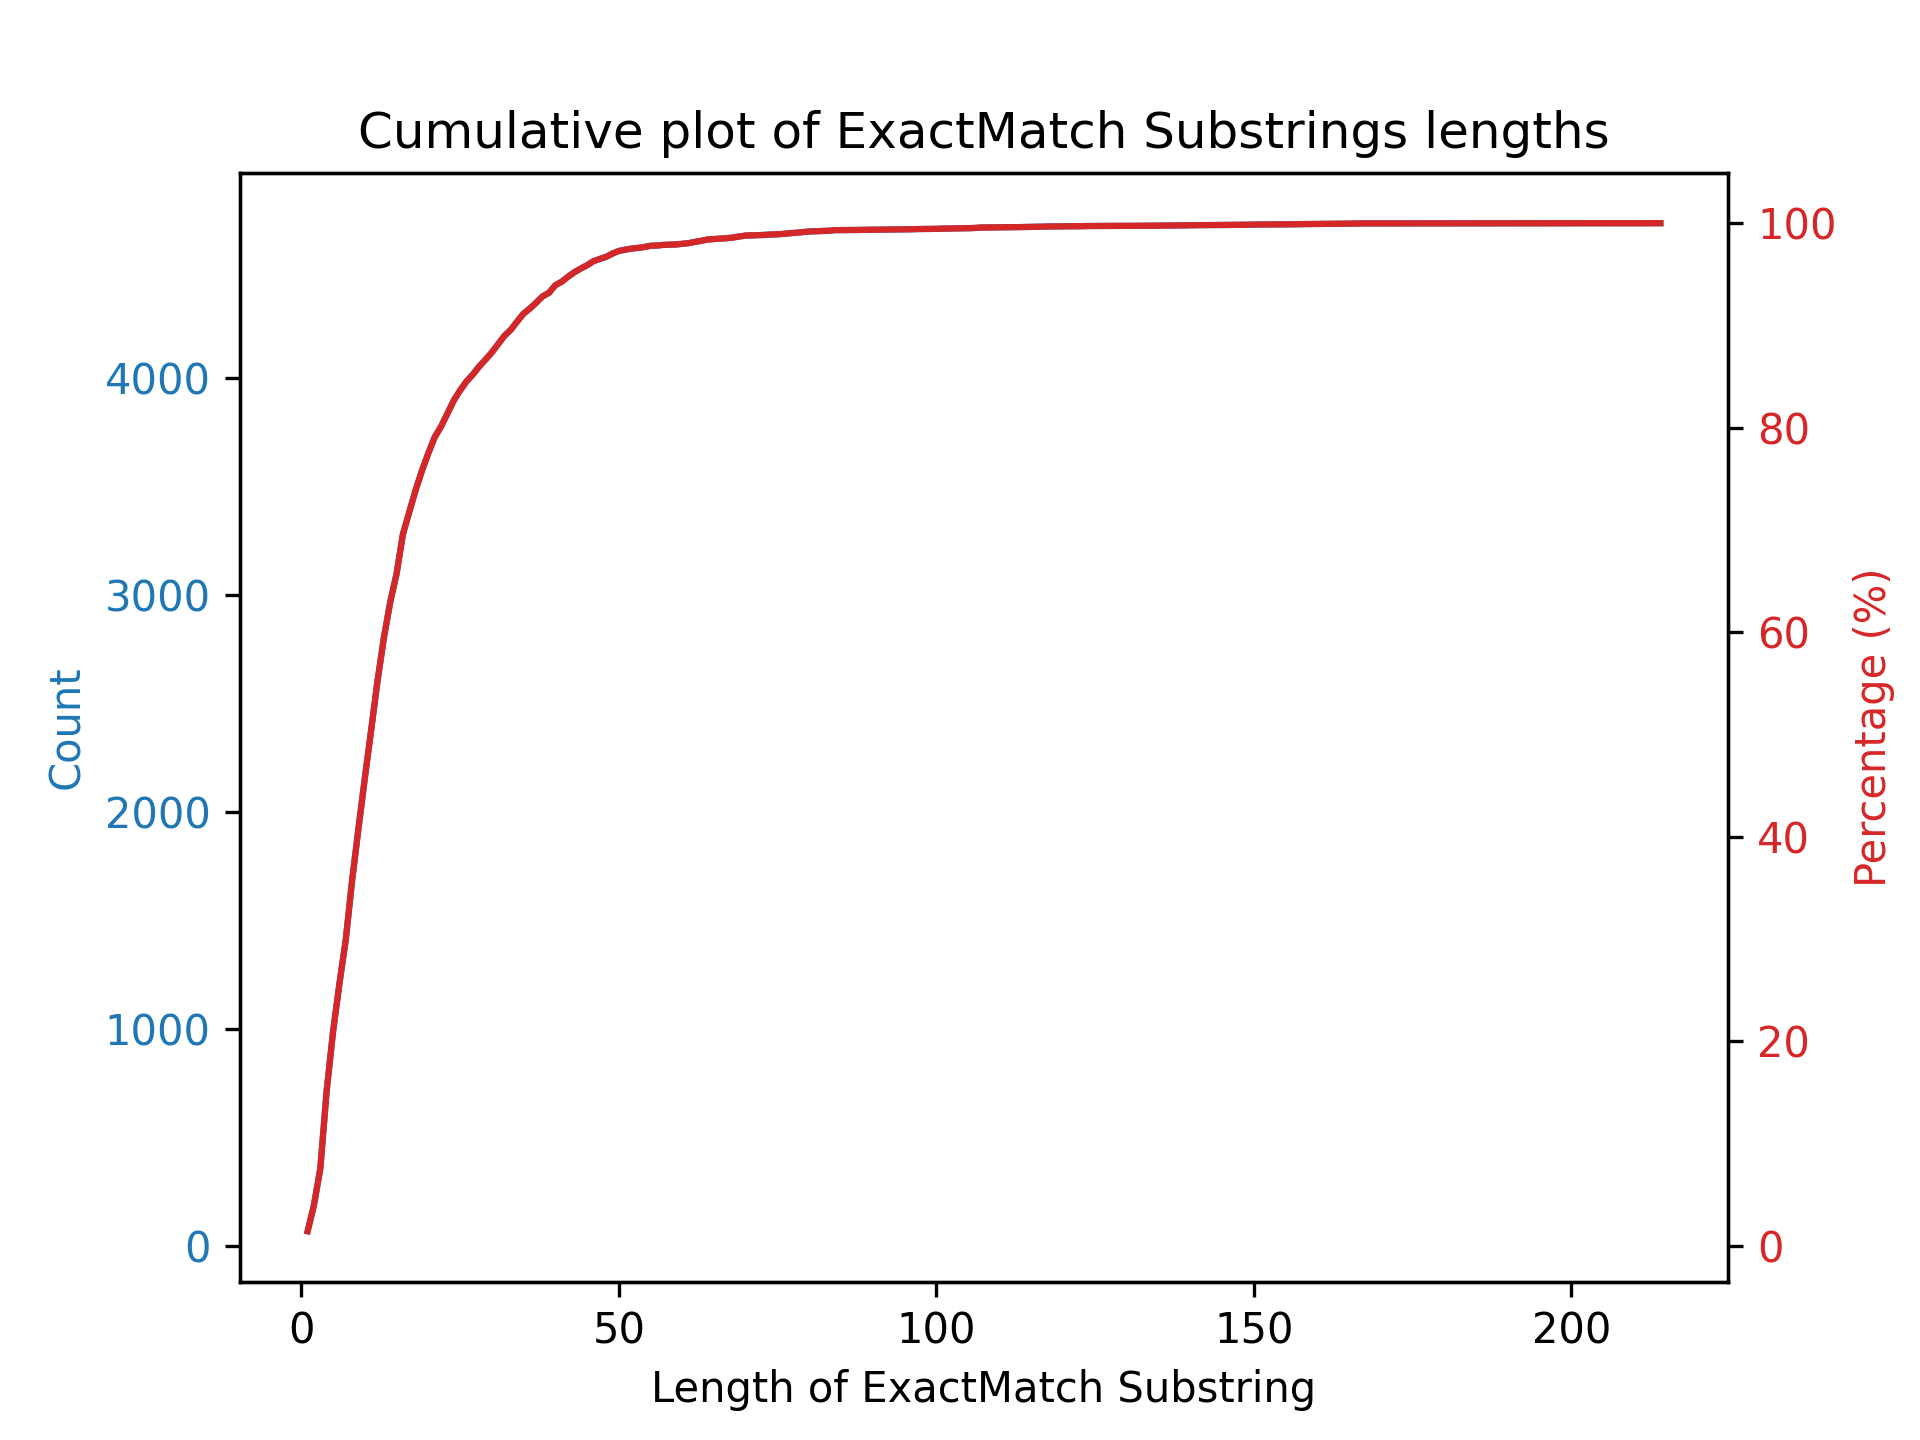
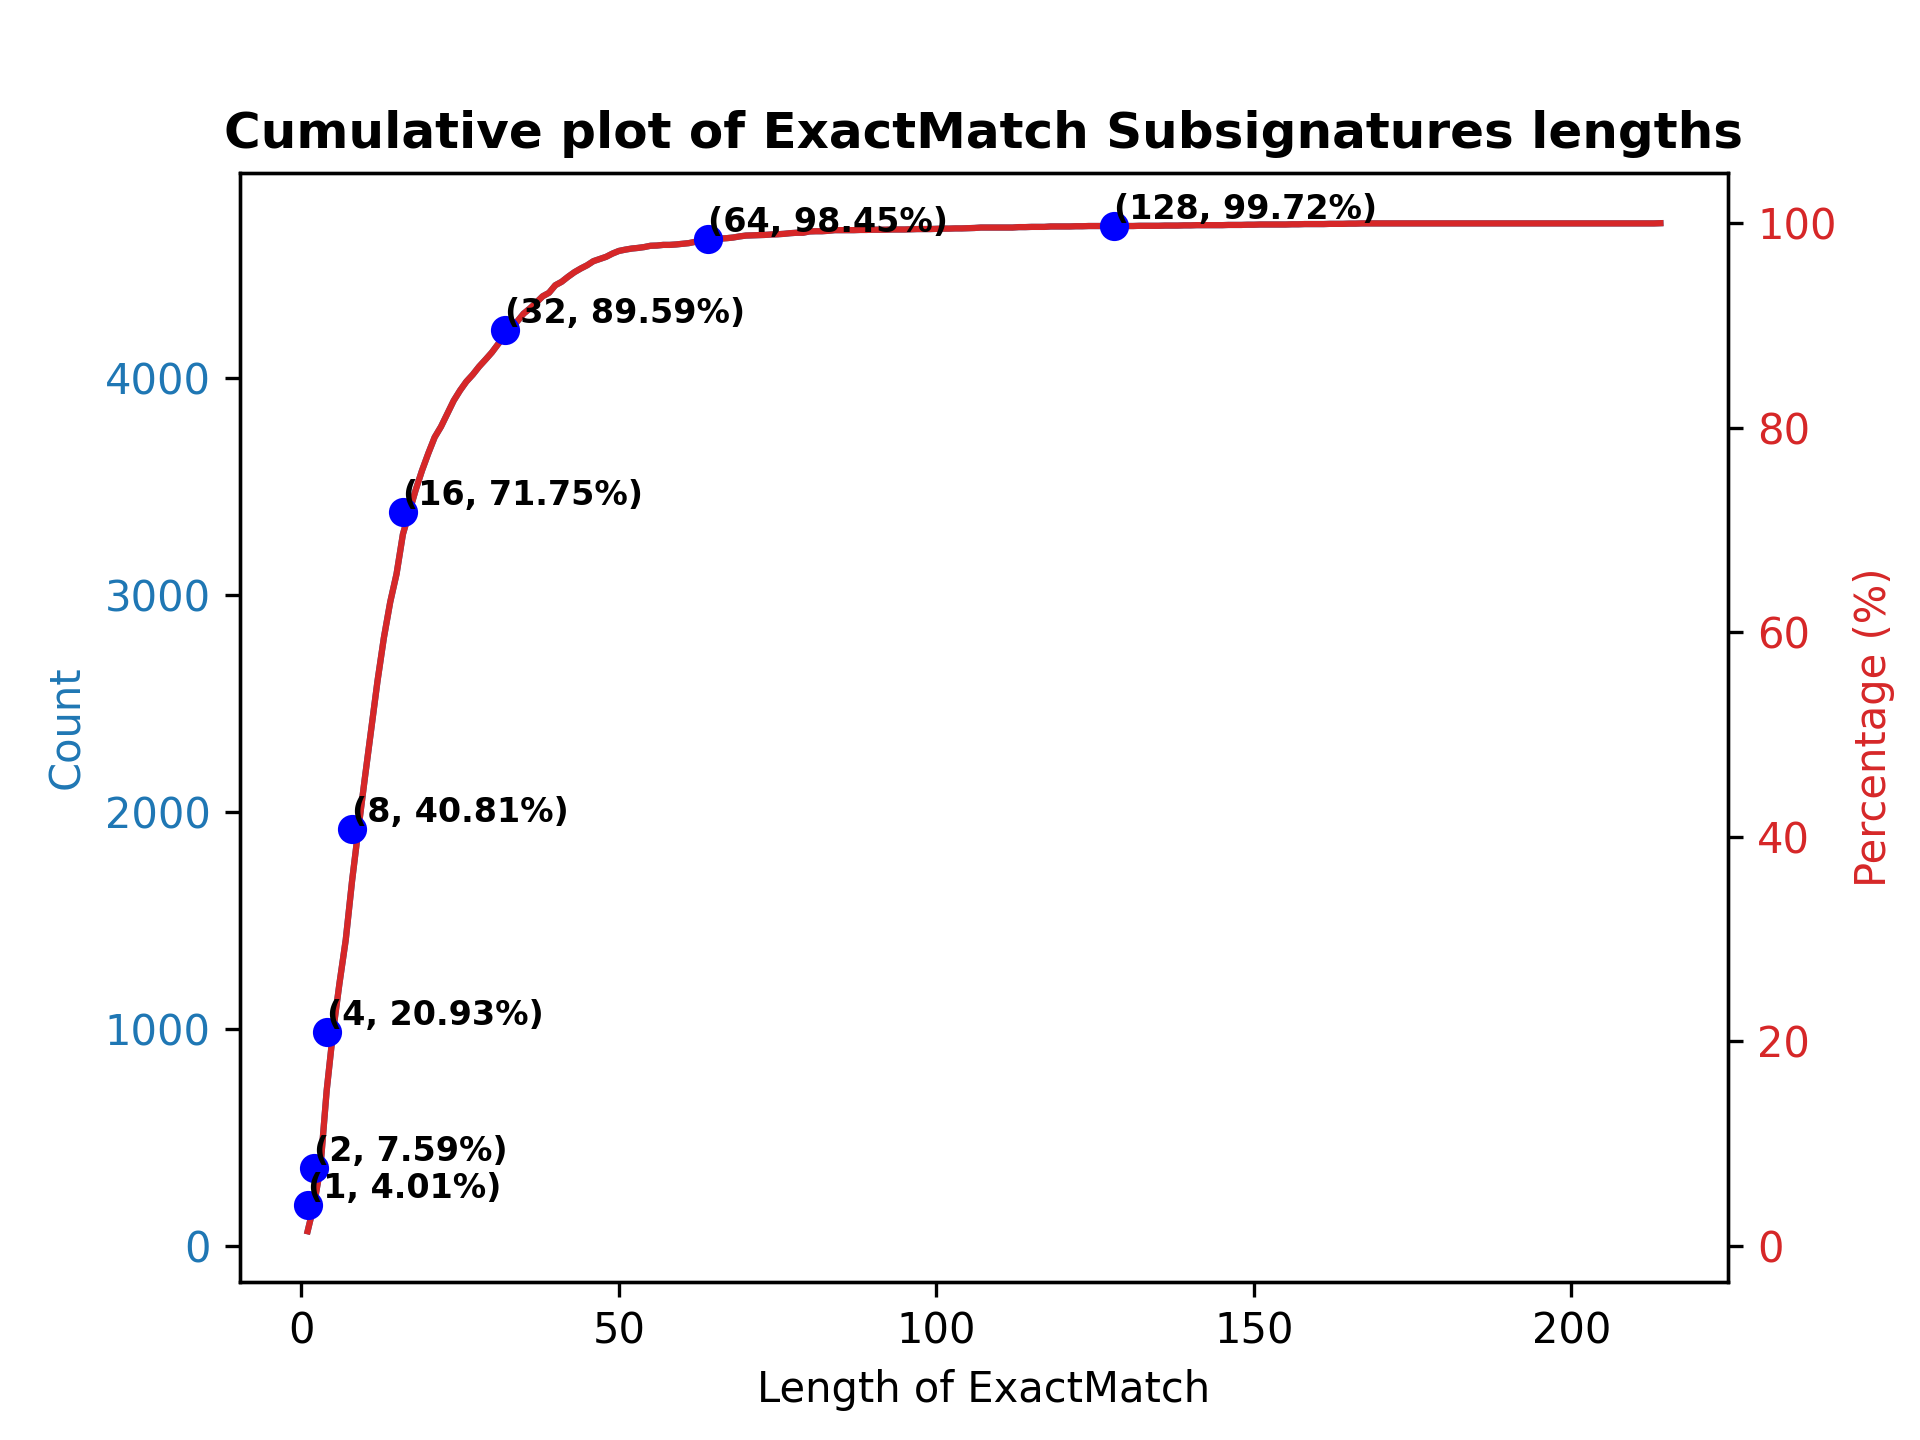
Updated ResultsAnalysis.py: added plot_cummulative_exactmatch_length function to create a cumulative plot of ExactMatch Subsignatures lengths. Removed unused import. Updated log messages.

diff --git a/PartA_Data_Process/ResultsAnalysis.py b/PartA_Data_Process/ResultsAnalysis.py
@@ -3,7 +3,6 @@ This module is in charge of the data prossesing after parsing the snort rules.
 """
 
 import os
-import SnortRulesParser as SnortRulesParser
 import matplotlib.pyplot as plt
 import numpy as np
 from collections import Counter
@@ -23,41 +22,45 @@ total_content = 0
 total_exactmatches = 0
 unique_exactmatches = 0
 
-def create_plots(data_by_signature, data_by_exactmatch, abs_save_path, logger):
+def plot_cummulative_exactmatch_length(data_by_exactmatch, abs_save_path, logger):
     """
         A function used to create the plots for the analysis.
     """
     
     # Plot the cumulative plot of the exact_match lengths.
     exactmatches_lengths = [len(line["exact_match"]) for line in data_by_exactmatch]
-    length_counts = dict(Counter(exactmatches_lengths))
     
-    sorted_lengths = sorted(length_counts.keys())
-    sorted_counts = [length_counts[length] for length in sorted_lengths]
+    length_counts = [exactmatches_lengths.count(i) for i in range(1, max(exactmatches_lengths) + 1)]
+    length = [i for i in range(1, len(length_counts) + 1)]
 
-    cumulative_counts = np.cumsum(sorted_counts)
-
+    cumulative_counts = np.cumsum(length_counts)
     total_count = cumulative_counts[-1]
     cumulative_percentages = (cumulative_counts / total_count) * 100
 
     fig, ax1 = plt.subplots()
 
     color = 'tab:blue'
-    ax1.set_xlabel('Length of ExactMatch Substring')
+    ax1.set_xlabel('Length of ExactMatch')
     ax1.set_ylabel('Count', color=color)
-    ax1.plot(sorted_lengths, cumulative_counts, color=color)
     ax1.tick_params(axis='y', labelcolor=color)
+    ax1.plot(length, cumulative_counts, color=color)
 
     ax2 = ax1.twinx()
     color = 'tab:red'
     ax2.set_ylabel('Percentage (%)', color=color)
-    ax2.plot(sorted_lengths, cumulative_percentages, color=color)
+    ax2.plot(length, cumulative_percentages, color=color)
     ax2.tick_params(axis='y', labelcolor=color)
+    xticks = [2**i for i in range(int(np.log2(max(length))) + 1)]
+    for x_val in xticks:
+        y_val = cumulative_percentages[x_val]
+        plt.plot(x_val, y_val, 'bo')
+        plt.text(x_val, y_val, f'({x_val}, {y_val:.2f}%)', fontsize=8, fontweight='bold', ha='left', va='bottom')
 
-    plt.title('Cumulative plot of ExactMatch Substrings lengths')
-
+    ax2.tick_params(axis='y', labelcolor=color)
+    
+    plt.title('Cumulative plot of ExactMatch Subsignatures lengths', fontweight='bold')
     plt.savefig(os.path.join(abs_save_path, 'cumulative_plot_exactmatches.png'), dpi=300)
-    logger.info(f'Saved the cumulative plot of exactmatches lengths under the path {abs_save_path}')
+    plt.close()  
     
 def check_rules_with_no_signitures(data_by_signature, logger):
     """
@@ -100,7 +103,7 @@ def log_info(start_time, end_time,logger):
     width = os.get_terminal_size().columns
     
     print('-' * width)
-    logger.info('General information after the script\'s execution:\n')
+    logger.info('General information after the script\'s execution:')
     logger.info(f'The script\'s execution took {end_time - start_time:.3f} seconds.')
     
     logger.info(f'The snort rule file contains {total_rules} rules.')
@@ -119,5 +122,5 @@ def main(data_by_signature, data_by_exactmatch, abs_save_path, logger):
    
     check_rules_with_no_signitures(data_by_signature, logger)
     check_rules_lost_while_parsing(data_by_signature, logger)
-    create_plots(data_by_signature, data_by_exactmatch, abs_save_path, logger)
+    plot_cummulative_exactmatch_length(data_by_exactmatch, abs_save_path, logger)
     
